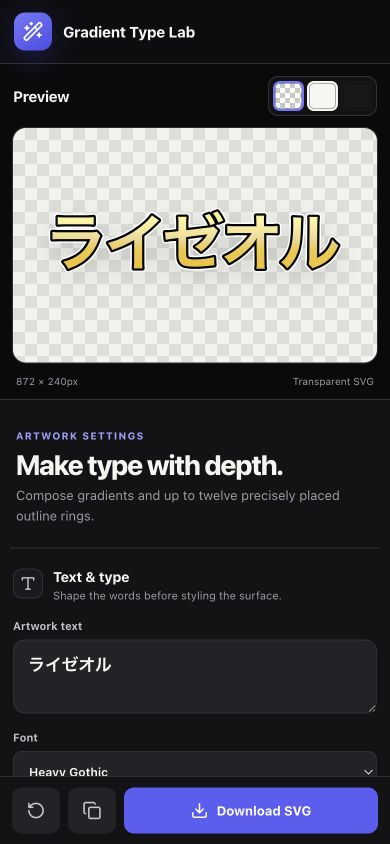
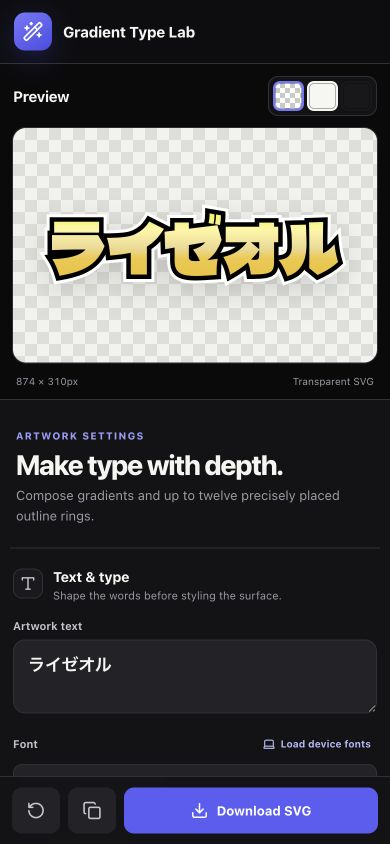
docs: record Sketch oracle verification

diff --git a/scripts/verifySketchOracle.ts b/scripts/verifySketchOracle.ts
@@ -6,6 +6,7 @@ import { dirname, resolve } from "node:path";
 import { spawnSync } from "node:child_process";
 import { fileURLToPath } from "node:url";
 import { createDocumentFromOptions, parseConfig } from "../src/cli.js";
+import { createInitialDocument } from "../src/editorModel.js";
 import { serializeSvgAsPaths } from "../src/svg.js";
 import {
   getOutlineFontFamily,
@@ -88,6 +89,14 @@ if (getOutlineFontWeight(font) !== manifest.font.weight) {
 const config = parseConfig(JSON.parse(await readFile(configPath, "utf8")) as unknown);
 const editor = createDocumentFromOptions(config);
 const svg = serializeSvgAsPaths(editor, font);
+const webPresetSvg = serializeSvgAsPaths(createInitialDocument(), font);
+const repeatedWebPresetSvg = serializeSvgAsPaths(createInitialDocument(), font);
+if (svg !== webPresetSvg || webPresetSvg !== repeatedWebPresetSvg) {
+  throw new Error("Equivalent web preset, CLI config, and repeated exports are not byte-identical");
+}
+if (svg.endsWith("\n")) {
+  throw new Error("Canonical SVG bytes must not include a trailing newline");
+}
 const pathData = /<path id="text-path" d="([^"]+)"/.exec(svg)?.[1] ?? "";
 const moves = (pathData.match(/M/g) ?? []).length;
 const closes = (pathData.match(/Z/g) ?? []).length;
@@ -171,6 +180,8 @@ process.stdout.write(
       alphaBounds,
       normalizedRmse,
       maximumNormalizedRmse: manifest.comparison.maximumNormalizedRmse,
+      canonicalBytes: Buffer.byteLength(svg),
+      webCliByteIdentical: true,
       svg: actualSvgPath,
       png: actualPngPath,
       diff: diffPngPath,

diff --git a/design-qa.md b/design-qa.md
@@ -1,87 +1,74 @@
 # Product Design QA
 
-**Source visual truth paths**
+## Visual Truth
 
-- `/Users/potato4d/.codex/attachments/f5fd8400-7386-46b9-885c-978a25c5a176/image-1.png`
-- `/Users/potato4d/.codex/attachments/f5fd8400-7386-46b9-885c-978a25c5a176/image-2.png`
-- `/Users/potato4d/Desktop/Frame 2.svg`
+- `test/fixtures/sketch/[email redacted]` is the canonical Sketch-rendered pixel oracle.
+- `test/fixtures/sketch/frame-2.svg` is supporting vector structure, not a portable paint authority; several Sketch-specific expansion semantics do not survive generic SVG rendering.
+- `test/fixtures/sketch/frame-2.config.json` and `frame-2.manifest.json` pin the exact document, DelaSuko font hash, geometry, rasterizer, and comparison threshold.
+- The supplied color-editor screenshots remain the visual source for compact color and layer controls.
 
-**Implementation screenshot paths**
+## Current Evidence
 
-- `/Users/potato4d/.ghq/github.com/potato4d/gradient-text-gen/docs/qa/desktop-final.png`
-- `/Users/potato4d/.ghq/github.com/potato4d/gradient-text-gen/docs/qa/mobile-final.png`
+- Desktop editor at 1440 × 960: `docs/qa/desktop-final.png`.
+- Mobile editor at 390 × 844: `docs/qa/mobile-final.png`.
+- Current-run Sketch/generated/difference canvas: `docs/qa/sketch-oracle-comparison.png`.
+- Regenerable outlined SVG, 2x raster, and diff artifacts are produced by `npm run test:visual` when `GRADIENT_TEXT_GEN_VISUAL_OUTPUT_DIR` is set.
 
-**Viewports**
+## Canonical State
 
-- Desktop: 1440 × 960 CSS pixels.
-- Mobile: 390 × 844 CSS pixels.
+- Text: `ライゼオル`.
+- Font: DelaSuko Gothic One Regular v1.005, weight 400, pinned by SHA-256.
+- Typography: 155 px, tracking 0, line height 1.
+- Fill: exact five-stop vertical yellow gradient from the Sketch data.
+- Outlines: black 12 px outside and white 20 px outside, miter joins.
+- Frame: 874 × 310 with the pinned reference origin, baseline, and per-glyph import calibration.
 
-**State**
+## Audit Results
 
-- Reference-inspired starter preset: Japanese text, Heavy Gothic, vertical five-stop yellow gradient, 6 px black outside ring, 4 px white outside ring, transparent preview surface, and 100% zoom.
+### 1. Pixel oracle — passed
 
-**Full-view comparison evidence**
+- The generated SVG raster is 1748 × 620, matching the Sketch PNG.
+- Both images have the exact alpha bounds `1641x437+42+93`.
+- ImageMagick normalized RGBA RMSE is `0.00281185`, below the pinned `0.003` maximum.
+- Alpha IoU is `0.9999223429`; only 40 support pixels differ.
+- Premultiplied PSNR is approximately `51.02 dB`.
+- The amplified difference image confines residuals to antialiased edges and gradient quantization. No layout, glyph, outline, or paint-order mismatch is visible.
 
-- `docs/qa/desktop-comparison.png` places both supplied UI references, the supplied SVG output, and the final desktop implementation in one comparison canvas.
-- `docs/qa/mobile-comparison.png` places the source details and final mobile implementation in one comparison canvas.
+Literal `AE = 0` is not portable between Sketch and macOS ImageIO because the rasterizers quantize vector edges and gradients differently. The implementation keeps the output as vector paths and does not embed the oracle PNG.
 
-**Focused region comparison evidence**
+### 2. Rendering contract — passed
 
-- `docs/qa/controls-comparison.png` compares the color stop rail, layer anatomy, toggles, compact numeric fields, typography controls, spacing, and dark visual tokens at readable scale.
+- Open CFF glyph contours are closed before SVG strokes are applied.
+- Outside sizes are absolute glyph-edge distances and serialize as doubled strokes behind the base fill.
+- The generated path is stored once and reused for the outer white, inner black, and gradient fill layers.
+- The outlined preview uses the exact serializer markup and dimensions used by clipboard, download, and CLI output.
+- The web starter preset, equivalent CLI config, and repeated export emit the same 6,937 canonical bytes without a trailing newline.
 
-## Findings
+### 3. Desktop editor — passed
 
-No actionable P0, P1, or P2 differences remain.
+- The 874 × 310 starter preview uses 40 px white and 24 px black centered strokes, producing the required 20 px and 12 px outside coverage.
+- Text, font, weight, size, tracking, leading, gradient stops, outline placement, and export actions are visible and usable.
+- The visible Canvas control starts on `Frame 2`; editing a long text line selects `Fit artwork` and expands the preview from 874 × 310 to 3720 × 251 instead of clipping. The user can explicitly restore the reference frame.
+- No browser console warnings or errors were observed in the current run.
+- The in-app browser does not expose Local Font Access, and the UI correctly presents manual family-name and font-file fallbacks.
 
-- Fonts and typography: the interface uses a restrained system sans hierarchy comparable to the references. The preview reproduces the heavy Japanese display treatment and exposes font, weight, size, tracking, and leading. Exact glyph outlines may vary when a selected font is unavailable on another system; this is an expected text-based SVG portability constraint and the exported fallback stack is explicit.
-- Spacing and layout rhythm: desktop uses a dense 470 px editing rail beside a large canvas, preserving the compact reference control rhythm without crowding the preview. Mobile reorders the canvas before the controls, retains a fixed export action, and has no horizontal page overflow at 390 px.
-- Colors and visual tokens: dark neutral surfaces, subtle dividers, muted secondary type, indigo selection states, white stop rings, yellow gradient stops, and the checkerboard canvas map closely to the references. Focus indicators and selected states remain visible.
-- Image quality and asset fidelity: the product contains no decorative raster substitutes. The artwork is native SVG, the checkerboard is a functional preview surface, and all interface icons come from `lucide-react`. The output keeps vector edges at every scale.
-- Copy and content: all product copy is concise English, distinguishes fills from outlines, explains placement behavior, and makes the export action explicit.
-- Interaction states: fill and outline add/remove/reorder/toggle controls work; selected and disabled states are visible; gradient stops, font selection, placement selection, reset, copy, download, zoom, and preview surfaces are interactive.
-- Accessibility: regions and sliders have programmatic names, controls are keyboard reachable, focus rings are visible, reduced motion is supported, and mobile primary targets are at least 44 px.
+### 4. Mobile editor — passed
 
-## Comparison History
+- At 390 × 844, body and document `scrollWidth` both equal 390 px.
+- The preview canvas, editor panel, and header remain within their client width with no horizontal page overflow.
+- Preview appears before the long control rail and primary export actions remain fixed and reachable.
 
-### Iteration 1 — blocked
+## Evidence Limits
 
-- [P2] Range controls lacked explicit accessible names in the browser accessibility tree.
-  - Evidence: the initial browser snapshot exposed slider values without names.
-  - Impact: assistive technology users could not reliably distinguish size, tracking, leading, direction, opacity, and thickness.
-  - Fix: added an explicit `aria-label` sourced from each range field label.
-- [P2] The text, fill, and outline regions referenced missing heading IDs.
-  - Evidence: the initial browser snapshot exposed unnamed regions even though the visible headings were present.
-  - Impact: editor navigation by region was less clear for assistive technology.
-  - Fix: connected each region to its visible heading with stable IDs.
-- [P2] The initial leading value was `0.96` while the control step was `0.05`.
-  - Evidence: `docs/qa/desktop-initial.png` displayed `0.96` while the browser normalized the underlying slider to `0.95`.
-  - Impact: visible and interactive values could disagree.
-  - Fix: aligned the starter value to `0.95`.
+- Browser screenshots verify the live text preview and responsive editor. The authorized DelaSuko binary cannot be selected through the in-app browser's file chooser, so the exact outlined path preview is covered by serializer tests and the 2x pixel oracle instead.
+- An exact Sketch-rasterized PNG can only be reproduced by Sketch itself or by embedding a raster image. Neither is used for the delivered standalone vector SVG.
 
-### Iteration 2 — passed
+## Verification
 
-- Post-fix visual evidence: `docs/qa/desktop-final.png`, `docs/qa/mobile-final.png`, and the three combined comparison images listed above.
-- Post-fix browser evidence: all editor regions and range controls expose names; the leading label and slider both report `0.95`.
-- Browser console: no warnings or errors.
-- Responsive evidence: body and document `scrollWidth` both equal 390 px at the mobile viewport.
-- Primary interactions tested: font and stop editing, second fill, dark preview surface, twelve outlines, disabled maximum action, inside clipping, zero outlines, copy SVG, download SVG, and reset.
+```bash
+npm run verify
+```
 
-## Open Questions
-
-- None blocking. A future path-based or font-embedded export mode could provide font portability beyond the current text-based SVG requirement.
-
-## Implementation Checklist
-
-- [x] Match the supplied dark color and layer editing language.
-- [x] Match the supplied multi-stop gradient and double-outline output style.
-- [x] Support font selection in preview and export.
-- [x] Support zero to twelve outline layers with editable color, thickness, opacity, and outside/center/inside placement.
-- [x] Produce deterministic SVG markup for equivalent settings.
-- [x] Pass desktop and 390 × 844 mobile browser verification.
-- [x] Pass automated tests and production build.
-
-## Follow-up Polish
-
-- [P3] An optional embedded-font export mode could make glyph shapes portable across machines, at the cost of larger files and font licensing complexity.
+The gate includes strict TypeScript checks, 28 automated tests, production builds, fixture and font hashes, deterministic serializer checks, exact geometry checks, automatic fit-frame regression coverage, and the pixel oracle comparison.
 
 final result: passed

diff --git a/docs/CLI.md b/docs/CLI.md
@@ -36,7 +36,7 @@ gradient-text-gen \
   --stop "#F4FF77@100" \
   --angle 135 \
   --outline "#000000@6:outside" \
-  --outline "#FFFFFF@4:outside" \
+  --outline "#FFFFFF@10:outside" \
   --output gradient.svg
 ```
 
@@ -74,6 +74,8 @@ gradient-text-gen \
 
 Outlined export supports OTF, TTF, and WOFF input. It fails when the font file is invalid or lacks a required glyph. The font file path and binary are never included in the SVG, so the same file bytes and editor settings produce the same output regardless of the input path.
 
+Outlined geometry is determined by the exact font-file bytes. A family name or CSS weight alone does not identify the selected outline face. When the parsed file reports a different weight, its embedded weight is authoritative for path output.
+
 ## Argument Formats
 
 Gradient stops use:
@@ -90,6 +92,8 @@ Outlines use:
 
 Both options are repeatable. At least two stops are required when overriding the gradient, and at most twelve outlines are accepted.
 
+For `outside`, size is the absolute distance from the glyph edge. For example, `#FFFFFF@20:outside` produces 20 px of outside coverage and is serialized as a 40 px centered stroke behind the base fill.
+
 ## JSON Configuration
 
 Use `--config settings.json` with a partial configuration object:
@@ -99,15 +103,34 @@ Use `--config settings.json` with a partial configuration object:
   "text": "Config driven",
   "fontFamily": "'Avenir Next', sans-serif",
   "textToPath": "./fonts/Brand-Regular.otf",
-  "weight": 900,
-  "size": 164,
-  "tracking": -4,
-  "lineHeight": 0.95,
+  "weight": 400,
+  "size": 155,
+  "tracking": 0,
+  "lineHeight": 1,
   "angle": 180,
   "fillOpacity": 100,
-  "stops": ["#E9F62A@0", "#FFF5A0@27", "#F1BC15@100"],
-  "outlines": ["#050505@6:outside", "#FFFFFF@4:outside"]
+  "stops": ["#E9F62A@0", "#FFF5A0@26.5679633", "#F1BC15@100"],
+  "outlines": ["#000000@12:outside", "#FFFFFF@20:outside"]
 }
 ```
 
+JSON configuration also accepts a deterministic frame:
+
+```json
+{
+  "frame": {
+    "mode": "fixed",
+    "width": 874,
+    "height": 310,
+    "originX": 44.995,
+    "baselineY": 234.835,
+    "glyphOffsets": [{ "x": 0, "y": 0 }]
+  }
+}
+```
+
+Use `{ "frame": { "mode": "fit" } }` for content-derived bounds. When text or typography differs from the starter preset and no frame is supplied, the CLI selects `fit` automatically. Optional per-glyph offsets are intended for deterministic import/reference calibration, not font shaping.
+
 Command-line options override config values. The resulting SVG contains no timestamps, random identifiers, comments, or operation history.
+
+SVG file and standard-output modes emit the serializer's canonical UTF-8 bytes without adding or removing whitespace at end of file.

diff --git a/docs/PRODUCT_SPEC.md b/docs/PRODUCT_SPEC.md
@@ -6,7 +6,8 @@ Build a browser-based editor that lets creators compose stylized text, preview i
 
 ## Visual References
 
-- `/Users/potato4d/Desktop/Frame 2.svg`: layered output with a multi-stop yellow gradient, a white outer outline, and a black inner outline.
+- `test/fixtures/sketch/frame-2.svg`: layered vector source with a multi-stop yellow gradient, a white outer outline, and a black inner outline.
+- `test/fixtures/sketch/[email redacted]`: canonical Sketch-rendered visual oracle for the Frame 2 preset.
 - `image-1.png`: compact dark color editor with an editable stop rail, a two-dimensional color field, hue control, and direct color values.
 - `image-2.png`: layered fill and border controls with enable toggles, previews, opacity, border placement, and width.
 
@@ -57,16 +58,18 @@ The references define the interaction density and output capabilities. The appli
 - Zero to twelve outline layers, exceeding the required ten-layer minimum.
 - Enable/disable, add, remove, and reorder controls.
 - Per-layer color, thickness, opacity, and `outside` / `center` / `inside` placement controls.
-- Layer ordering must produce a result comparable to the reference SVG.
+- Outside size is the absolute distance from the glyph edge. A 20 px outside outline therefore serializes as a 40 px centered SVG stroke behind the fill.
+- Layer ordering, miter joins, and the final base-path fill must reproduce the canonical Sketch oracle within its pinned comparison threshold.
 
 ### Preview and Export
 
 - Live SVG preview.
 - Transparent checkerboard, light, and dark preview surfaces.
 - Zoom-to-fit behavior for long or multiline text.
+- A visible canvas mode selects the fixed Frame 2 reference artboard or content-derived fit bounds. Editing text or typography switches to fit bounds automatically.
 - SVG download with a safe filename.
 - Copy SVG source to the clipboard.
-- Reset to the reference-inspired starter preset.
+- Reset to the canonical Frame 2 starter preset.
 - Deterministic serialization: identical visible settings must produce identical final SVG file content, excluding comments.
 
 ### Command Line
@@ -96,6 +99,16 @@ The references define the interaction density and output capabilities. The appli
 - Reduced-motion support.
 - Sufficient contrast for small controls and disabled states.
 
+## Canonical Visual Oracle
+
+The Frame 2 fixture is the exact visual contract for one named outlined configuration. Its config, source SVG, Sketch PNG, font fingerprint, dimensions, rasterizer, comparison metric, and threshold are declared once in `test/fixtures/sketch/frame-2.manifest.json` and `frame-2.config.json`.
+
+- The selected font bytes must match the declared DelaSuko Gothic One Regular SHA-256 before comparison.
+- The shared serializer must emit an 874 × 310 outlined SVG with closed path contours, the fixed reference origin, exact gradient stops, miter joins, black 12 px outside coverage, and white 20 px outside coverage.
+- macOS ImageIO rasterizes the generated SVG to a transparent 1748 × 620 PNG.
+- ImageMagick compares RGBA pixels with normalized RMSE at or below the manifest threshold and requires the exact declared alpha bounds.
+- Exact zero-error pixels across Sketch and another SVG rasterizer are a non-goal because edge antialiasing and gradient quantization differ. Embedding the PNG to force zero error is prohibited; the delivered artifact remains vector SVG.
+
 ## Acceptance Criteria
 
 - The full core journey works without a backend.
@@ -107,5 +120,8 @@ The references define the interaction density and output capabilities. The appli
 - The editor supports no outline and at least ten concurrent outline layers.
 - Repeated SVG generation from equivalent settings produces byte-identical markup because internal editor IDs and operation history are excluded.
 - Equivalent CLI and web settings produce byte-identical SVG markup.
+- CLI file/stdout, browser preview, clipboard, and download use the same canonical UTF-8 SVG bytes without adding an end-of-file newline.
+- In outlined mode, the preview renders the same path-based markup and dimensions used for copy and download.
+- The canonical Frame 2 visual verification passes the manifest dimensions, alpha bounds, and ImageMagick RMSE threshold.
 - Desktop and 390 px mobile browser checks pass without clipped primary controls.
 - Production build succeeds and design QA reports `final result: passed`.

diff --git a/docs/TESTING.md b/docs/TESTING.md
@@ -8,6 +8,7 @@ Run the full local verification set from the repository root:
 npm run typecheck
 npm test
 npm run build
+npm run test:visual
 git diff --check
 ```
 
@@ -31,7 +32,24 @@ The automated test `equivalent settings serialize to byte-identical final SVG co
 
 The CLI test suite repeats the same guarantee for two documents created from equivalent CLI options. The smoke check writes two SVG files with identical options and compares them byte for byte.
 
-The outlined serializer test uses a generated fixture font and requires equivalent documents with different internal IDs to produce byte-identical SVG. It also verifies that the file contains one reusable path definition, preserves outside/center/inside layers, excludes font dependencies, and contains no invalid numeric values. A CLI smoke check generates the same outlined SVG twice from one system font file and compares the files byte for byte.
+The outlined serializer test uses a generated fixture font and requires equivalent documents with different internal IDs to produce byte-identical SVG. It also verifies that the file contains one reusable path definition, preserves outside/center/inside layers, excludes font dependencies, and contains no invalid numeric values. The Sketch oracle script exercises outlined generation with the authorized reference font and verifies the resulting visual artifact.
+
+CLI file output is compared directly with the in-memory web serializer string. The test also requires the canonical no-trailing-newline policy.
+
+## Sketch Pixel Oracle
+
+Run the canonical visual gate on macOS:
+
+```bash
+GRADIENT_TEXT_GEN_REFERENCE_FONT="$HOME/Library/Fonts/DelaSukoGothicOne-R.otf" \
+  npm run test:visual
+```
+
+The script validates the checked-in fixture and font hashes, requires the web starter preset, equivalent CLI config, and repeated exports to be byte-identical without a trailing newline, rasterizes the outlined SVG through macOS ImageIO at 2x, and invokes ImageMagick RGBA comparison. Dimensions, alpha bounds, and the maximum normalized RMSE come from `test/fixtures/sketch/frame-2.manifest.json`.
+
+The PNG oracle came from Sketch. Sketch and ImageIO do not quantize gradients and antialiased edges identically, so `AE = 0` is not a valid pure-vector cross-renderer requirement. The gate instead uses a tightly bounded RMSE plus exact geometry bounds. A raster image must never be embedded in the SVG to satisfy the gate.
+
+Use `npm run verify` for the full local release gate. The visual step fails clearly when the authorized reference font, `sips`, or ImageMagick is unavailable.
 
 ## Browser Verification Matrix
 

diff --git a/docs/ARCHITECTURE.md b/docs/ARCHITECTURE.md
@@ -19,6 +19,7 @@ document
 ├── typography: family, weight, size, lineHeight, letterSpacing
 ├── fills[]: id, enabled, type, opacity, angle, color, stops[]
 ├── outlines[]: id, enabled, color, width, opacity, placement
+├── frame: fit or fixed width, height, origin, baseline, glyph calibration
 └── preview: background, zoom
 ```
 
@@ -26,15 +27,18 @@ Every visible control updates this document. Preview markup and downloaded SVG m
 
 The CLI starts with the same document preset, applies validated command-line or JSON overrides, and calls the same serializer. Transient IDs are never included in SVG output.
 
+The reference preset starts on its pinned 874 × 310 artboard. Web text/font/typography edits and CLI geometry overrides switch to `fit` unless a fixed frame is explicitly selected, preventing ordinary long or multiline content from inheriting the Sketch calibration and clipping.
+
 Installed font discovery is user-initiated because browsers require explicit permission. `localFonts.ts` converts Local Font Access results into deduplicated family options and safely quotes family names for CSS/SVG use. The editor always retains manual family-name entry as a capability and permission fallback.
 
-Outlined export keeps parsed font data outside the serializable editor document. The browser may read bytes from an authorized `FontData.blob()` or a user-selected OTF, TTF, or WOFF file; the CLI requires an explicit file path. `textToPath.ts` lays out glyph paths with font metrics, kerning, tracking, and multiline baselines. The SVG stores the combined geometry once in `<defs>` and reuses it for every fill and outline layer.
+Outlined export keeps parsed font data outside the serializable editor document. The browser may read bytes from an authorized `FontData.blob()` or a user-selected OTF, TTF, or WOFF file; the CLI requires an explicit file path. `textToPath.ts` lays out glyph paths with font metrics, kerning, tracking, alignment, and multiline baselines. It closes CFF contours before stroking, treats the parsed font file's weight as authoritative, and separates fit bounds from an optional fixed reference frame. The SVG stores the combined geometry once in `<defs>` and reuses it for every fill and outline layer.
 
 ## Rendering Strategy
 
 - Measure the text in the browser to derive a padded SVG view box.
 - Render the outermost outlines first as repeated SVG `<text>` elements.
-- Build outside rings from cumulative thicknesses, use native centered strokes for `center`, and clip doubled strokes to glyph shapes for `inside`.
+- Treat each outside size as an absolute glyph-edge distance and render it as a doubled centered stroke behind the fill. Use native centered strokes for `center`, and clip doubled strokes to glyph shapes for `inside`.
+- Use miter joins and butt caps so sharp corners match the Sketch reference.
 - Render fill layers above outlines as repeated `<text>` elements with gradient or solid paint.
 - Create one SVG `<linearGradient>` definition per enabled gradient fill.
 - Use `paint-order: stroke fill` so wide strokes do not eat into the fill.
@@ -45,12 +49,13 @@ Outlined export keeps parsed font data outside the serializable editor document.
 - Serialize a standalone SVG string from the editor document.
 - Generate stable paint and clip IDs from rendered array positions rather than transient editor IDs.
 - Omit timestamps, random values, comments, and operation history so equivalent visible settings are byte-identical.
-- Quantize generated glyph path coordinates to three decimal places and derive outlined view boxes from font metrics and glyph bounds.
+- Quantize generated glyph path coordinates to six decimal places. Fit frames use font metrics and glyph bounds; fixed frames preserve explicit dimensions and placement.
 - Reject outlined export when any non-whitespace glyph is unavailable instead of silently substituting a different font.
 - Include the selected CSS font-family value and typography attributes on every text node.
 - Escape text content before serialization.
 - Use a Blob URL for download and revoke it immediately afterward.
-- Use the same serializer for the clipboard action and download action.
+- Use the same serializer result for outlined preview, clipboard, download, CLI stdout, and CLI file output.
+- Emit the serializer string as canonical UTF-8 bytes without appending a trailing newline.
 
 ## Component Boundaries
 
@@ -90,6 +95,7 @@ The worker delegates static requests to the platform asset binding. Requests tha
 - Unit tests for CLI parsing, color normalization, gradient coordinate math, text escaping, outline placement, and SVG serialization.
 - A determinism test creates equivalent documents with different internal IDs and requires exactly equal SVG strings.
 - CLI smoke checks generate the same file twice and compare it byte for byte.
+- A checked-in Sketch oracle gate validates fixture/font hashes, raster dimensions, alpha bounds, and normalized RGBA RMSE through macOS ImageIO and ImageMagick.
 - Production build verification.
 - Browser checks for the complete edit-to-export journey.
 - Visual captures at desktop and 390 x 844 mobile viewports.

diff --git a/AGENTS.md b/AGENTS.md
@@ -17,3 +17,6 @@ When implementing from a selected generated mock, treat that image as the source
 - Support desktop and 390 px-wide mobile layouts without horizontal page overflow.
 - Keep the application, shared SVG model, tests, and CLI in strict TypeScript.
 - The web editor and CLI must share the same deterministic SVG serializer.
+- Treat `test/fixtures/sketch/[email redacted]` as the canonical visual oracle for the Frame 2 preset. The companion SVG is structural evidence, not the final paint authority.
+- Outside outline sizes are absolute distances from the glyph edge. The canonical preset uses black 12 px and white 20 px with miter joins.
+- Verify the canonical preset at 2x with macOS ImageIO and ImageMagick using the thresholds in `frame-2.manifest.json`; exact zero-error pixels are not portable across Sketch and other SVG rasterizers.

diff --git a/README.md b/README.md
@@ -6,6 +6,7 @@ A strict TypeScript web editor and CLI for building layered gradient text and ex
 - Type checks: `npm run typecheck`
 - Tests: `npm test`
 - Production build: `npm run build`
+- Complete release verification, including the Sketch pixel oracle: `npm run verify`
 - CLI: `npm run cli -- --help`
 
 See [the product specification](docs/PRODUCT_SPEC.md), [architecture](docs/ARCHITECTURE.md), [CLI guide](docs/CLI.md), and [testing guide](docs/TESTING.md).